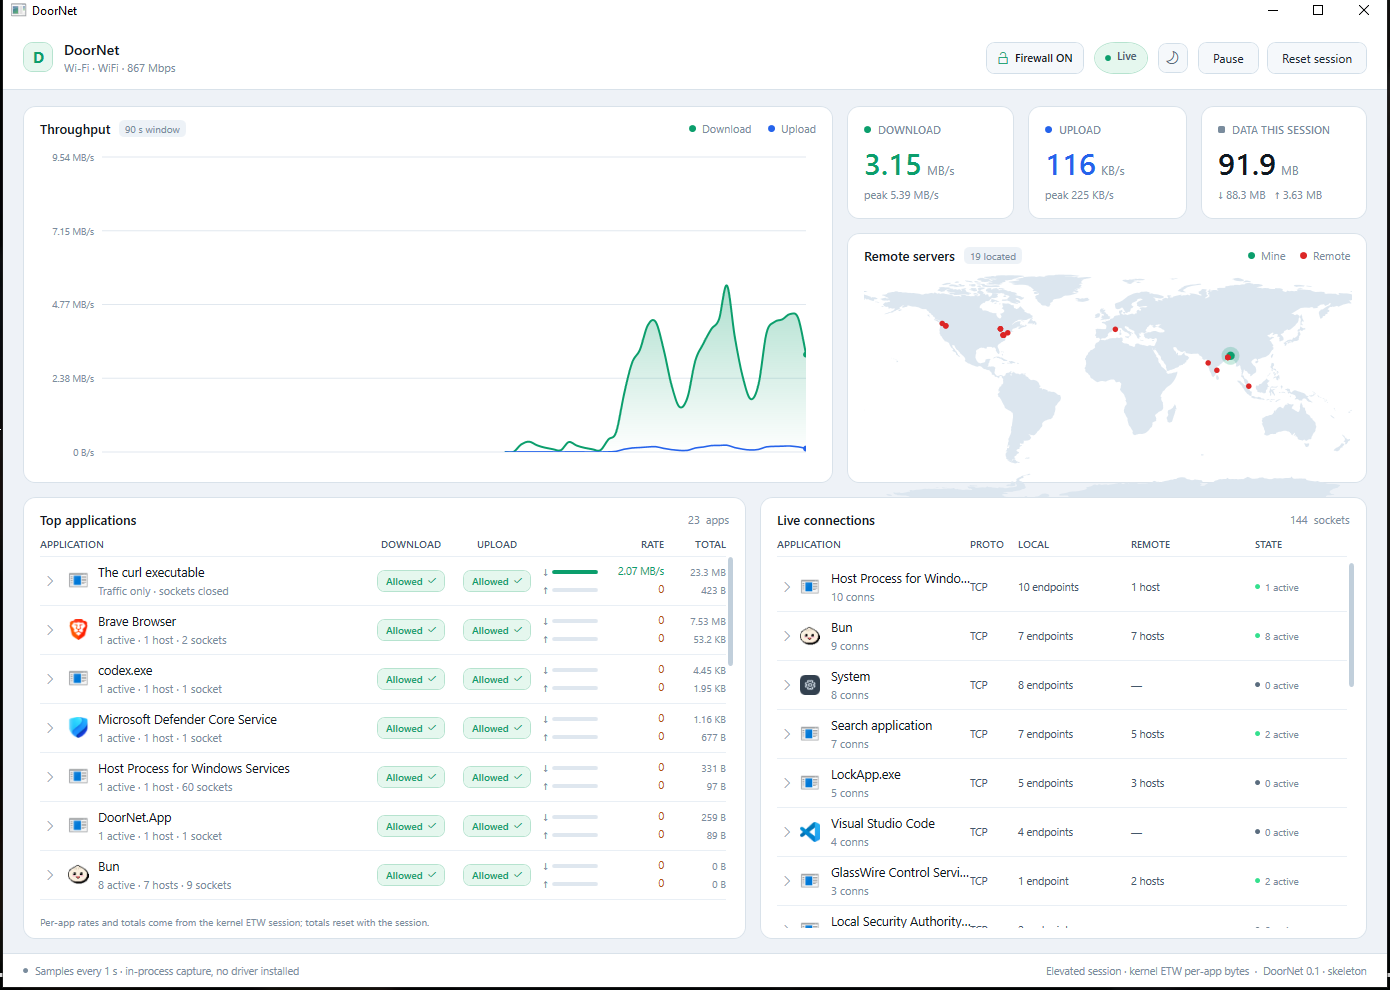
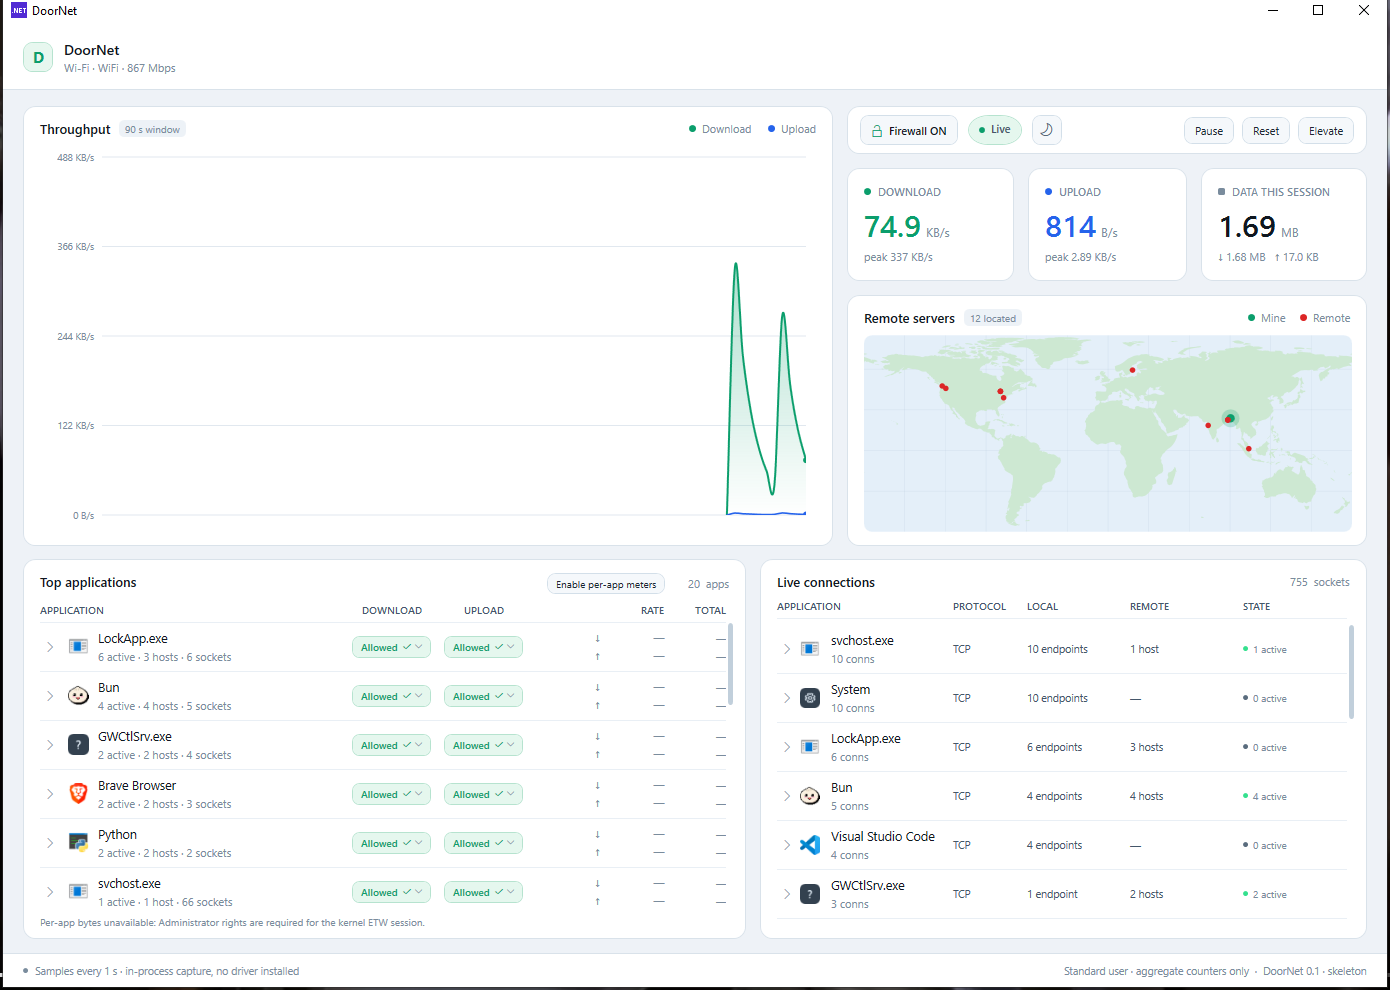
Move the session controls next to the meters and map
The header now holds only the product mark and adapter summary, leaving room for the planned navigation tabs. A session bar in the right column carries the firewall switch, live pill, theme toggle and the pause/reset/elevate actions, using the same card padding and gutters as the meters and map. The map keeps its 250px minimum and the bar stays a single row down to the minimum window width.

diff --git a/src/DoorNet.App/MainWindow.xaml b/src/DoorNet.App/MainWindow.xaml
@@ -57,103 +57,6 @@
                     </StackPanel>
                 </StackPanel>
 
-                <StackPanel Grid.Column="2" Orientation="Horizontal" VerticalAlignment="Center">
-                    <Button Command="{Binding ToggleFirewallCommand}"
-                            Style="{StaticResource GhostButton}"
-                            Padding="10,6"
-                            Margin="0,0,10,0"
-                            ToolTip="{Binding FirewallTooltip}">
-                        <StackPanel Orientation="Horizontal">
-                            <TextBlock Text="&#xE785;"
-                                       FontFamily="{StaticResource GlyphFont}"
-                                       FontSize="12"
-                                       Margin="0,0,6,0"
-                                       VerticalAlignment="Center">
-                                <TextBlock.Style>
-                                    <Style TargetType="TextBlock">
-                                        <Setter Property="Foreground" Value="{DynamicResource TextMutedBrush}" />
-                                        <Style.Triggers>
-                                            <DataTrigger Binding="{Binding IsFirewallEnabled}" Value="True">
-                                                <Setter Property="Foreground" Value="{DynamicResource DownloadBrush}" />
-                                            </DataTrigger>
-                                        </Style.Triggers>
-                                    </Style>
-                                </TextBlock.Style>
-                            </TextBlock>
-                            <TextBlock Text="{Binding FirewallStateText}"
-                                       FontSize="11"
-                                       FontWeight="SemiBold"
-                                       VerticalAlignment="Center">
-                                <TextBlock.Style>
-                                    <Style TargetType="TextBlock">
-                                        <Setter Property="Foreground" Value="{DynamicResource TextMutedBrush}" />
-                                        <Style.Triggers>
-                                            <DataTrigger Binding="{Binding IsFirewallEnabled}" Value="True">
-                                                <Setter Property="Foreground" Value="{DynamicResource TextPrimaryBrush}" />
-                                            </DataTrigger>
-                                        </Style.Triggers>
-                                    </Style>
-                                </TextBlock.Style>
-                            </TextBlock>
-                        </StackPanel>
-                    </Button>
-
-                    <Border Padding="10,5" CornerRadius="20" BorderThickness="1" ToolTip="{Binding LastError}">
-                        <Border.Style>
-                            <Style TargetType="Border">
-                                <Setter Property="Background" Value="{DynamicResource LivePillBrush}" />
-                                <Setter Property="BorderBrush" Value="{DynamicResource LivePillBorderBrush}" />
-                                <Style.Triggers>
-                                    <DataTrigger Binding="{Binding IsCapturing}" Value="False">
-                                        <Setter Property="Background" Value="{DynamicResource PausedPillBrush}" />
-                                        <Setter Property="BorderBrush" Value="{DynamicResource PausedPillBorderBrush}" />
-                                    </DataTrigger>
-                                </Style.Triggers>
-                            </Style>
-                        </Border.Style>
-                        <StackPanel Orientation="Horizontal">
-                            <Ellipse Width="6" Height="6" Margin="0,0,6,0" VerticalAlignment="Center">
-                                <Ellipse.Style>
-                                    <Style TargetType="Ellipse">
-                                        <Setter Property="Fill" Value="{DynamicResource DownloadBrush}" />
-                                        <Style.Triggers>
-                                            <DataTrigger Binding="{Binding IsCapturing}" Value="False">
-                                                <Setter Property="Fill" Value="{DynamicResource TextMutedBrush}" />
-                                            </DataTrigger>
-                                        </Style.Triggers>
-                                    </Style>
-                                </Ellipse.Style>
-                            </Ellipse>
-                            <TextBlock Text="{Binding StatusText}"
-                                       FontSize="11"
-                                       FontWeight="SemiBold"
-                                       Foreground="{DynamicResource TextSecondaryBrush}" />
-                        </StackPanel>
-                    </Border>
-
-                    <Button Style="{StaticResource IconButton}"
-                            Content="{Binding ThemeGlyph}"
-                            ToolTip="{Binding ThemeTooltip}"
-                            Command="{Binding ToggleThemeCommand}"
-                            AutomationProperties.AutomationId="ThemeToggle"
-                            AutomationProperties.Name="Switch theme"
-                            Margin="10,0,0,0" />
-
-                    <Button Content="{Binding CaptureButtonLabel}"
-                            Command="{Binding ToggleCaptureCommand}"
-                            Style="{StaticResource GhostButton}"
-                            Margin="10,0,0,0" />
-                    <Button Content="Reset session"
-                            Command="{Binding ResetSessionCommand}"
-                            Style="{StaticResource GhostButton}"
-                            Margin="8,0,0,0" />
-                    <Button Content="Restart elevated"
-                            Command="{Binding RestartElevatedCommand}"
-                            Style="{StaticResource GhostButton}"
-                            Margin="8,0,0,0"
-                            ToolTip="Relaunch with administrator rights to measure per-app byte usage"
-                            Visibility="{Binding CanOfferElevation, Converter={StaticResource BoolToVis}}" />
-                </StackPanel>
             </Grid>
         </Border>
 
@@ -209,7 +112,134 @@
                             </Grid>
                         </Border>
 
-                <Grid Grid.Row="0" Grid.Column="1" Margin="7,0,0,0">
+                <Grid Grid.Row="0" Grid.Column="1" Grid.RowSpan="2" Margin="7,0,0,0">
+                    <Grid.RowDefinitions>
+                        <RowDefinition Height="Auto" />
+                        <RowDefinition Height="Auto" />
+                        <RowDefinition Height="*" />
+                    </Grid.RowDefinitions>
+                    <Border Grid.Row="0" Style="{StaticResource Card}" Padding="12,8">
+                        <Grid>
+                            <Grid.ColumnDefinitions>
+                                <ColumnDefinition Width="Auto" />
+                                <ColumnDefinition Width="*" />
+                            </Grid.ColumnDefinitions>
+
+                            <StackPanel Grid.Column="0" Orientation="Horizontal" VerticalAlignment="Center">
+                                <Button Command="{Binding ToggleFirewallCommand}"
+                                        Style="{StaticResource GhostButton}"
+                                        Padding="10,6"
+                                        ToolTip="{Binding FirewallTooltip}">
+                                    <StackPanel Orientation="Horizontal">
+                                        <TextBlock Text="&#xE785;"
+                                                   FontFamily="{StaticResource GlyphFont}"
+                                                   FontSize="12"
+                                                   Margin="0,0,6,0"
+                                                   VerticalAlignment="Center">
+                                            <TextBlock.Style>
+                                                <Style TargetType="TextBlock">
+                                                    <Setter Property="Foreground" Value="{DynamicResource TextMutedBrush}" />
+                                                    <Style.Triggers>
+                                                        <DataTrigger Binding="{Binding IsFirewallEnabled}" Value="True">
+                                                            <Setter Property="Foreground" Value="{DynamicResource DownloadBrush}" />
+                                                        </DataTrigger>
+                                                    </Style.Triggers>
+                                                </Style>
+                                            </TextBlock.Style>
+                                        </TextBlock>
+                                        <TextBlock Text="{Binding FirewallStateText}"
+                                                   FontSize="11"
+                                                   FontWeight="SemiBold"
+                                                   VerticalAlignment="Center">
+                                            <TextBlock.Style>
+                                                <Style TargetType="TextBlock">
+                                                    <Setter Property="Foreground" Value="{DynamicResource TextMutedBrush}" />
+                                                    <Style.Triggers>
+                                                        <DataTrigger Binding="{Binding IsFirewallEnabled}" Value="True">
+                                                            <Setter Property="Foreground" Value="{DynamicResource TextPrimaryBrush}" />
+                                                        </DataTrigger>
+                                                    </Style.Triggers>
+                                                </Style>
+                                            </TextBlock.Style>
+                                        </TextBlock>
+                                    </StackPanel>
+                                </Button>
+
+                                <Border Padding="10,5"
+                                        CornerRadius="20"
+                                        BorderThickness="1"
+                                        Margin="10,0,0,0"
+                                        ToolTip="{Binding LastError}">
+                                    <Border.Style>
+                                        <Style TargetType="Border">
+                                            <Setter Property="Background" Value="{DynamicResource LivePillBrush}" />
+                                            <Setter Property="BorderBrush" Value="{DynamicResource LivePillBorderBrush}" />
+                                            <Style.Triggers>
+                                                <DataTrigger Binding="{Binding IsCapturing}" Value="False">
+                                                    <Setter Property="Background" Value="{DynamicResource PausedPillBrush}" />
+                                                    <Setter Property="BorderBrush" Value="{DynamicResource PausedPillBorderBrush}" />
+                                                </DataTrigger>
+                                            </Style.Triggers>
+                                        </Style>
+                                    </Border.Style>
+                                    <StackPanel Orientation="Horizontal">
+                                        <Ellipse Width="6" Height="6" Margin="0,0,6,0" VerticalAlignment="Center">
+                                            <Ellipse.Style>
+                                                <Style TargetType="Ellipse">
+                                                    <Setter Property="Fill" Value="{DynamicResource DownloadBrush}" />
+                                                    <Style.Triggers>
+                                                        <DataTrigger Binding="{Binding IsCapturing}" Value="False">
+                                                            <Setter Property="Fill" Value="{DynamicResource TextMutedBrush}" />
+                                                        </DataTrigger>
+                                                    </Style.Triggers>
+                                                </Style>
+                                            </Ellipse.Style>
+                                        </Ellipse>
+                                        <TextBlock Text="{Binding StatusText}"
+                                                   FontSize="11"
+                                                   FontWeight="SemiBold"
+                                                   Foreground="{DynamicResource TextSecondaryBrush}" />
+                                    </StackPanel>
+                                </Border>
+
+                                <Button Style="{StaticResource IconButton}"
+                                        Content="{Binding ThemeGlyph}"
+                                        ToolTip="{Binding ThemeTooltip}"
+                                        Command="{Binding ToggleThemeCommand}"
+                                        AutomationProperties.AutomationId="ThemeToggle"
+                                        AutomationProperties.Name="Switch theme"
+                                        Margin="10,0,0,0" />
+                            </StackPanel>
+
+                            <StackPanel Grid.Column="1"
+                                        Orientation="Horizontal"
+                                        HorizontalAlignment="Right"
+                                        VerticalAlignment="Center"
+                                        Margin="10,0,0,0">
+                                <Button Content="{Binding CaptureButtonLabel}"
+                                        Command="{Binding ToggleCaptureCommand}"
+                                        Style="{StaticResource GhostButton}"
+                                        FontSize="11"
+                                        Padding="10,5" />
+                                <Button Content="Reset"
+                                        Command="{Binding ResetSessionCommand}"
+                                        Style="{StaticResource GhostButton}"
+                                        FontSize="11"
+                                        Padding="10,5"
+                                        Margin="8,0,0,0"
+                                        ToolTip="Reset the session totals" />
+                                <Button Content="Elevate"
+                                        Command="{Binding RestartElevatedCommand}"
+                                        Style="{StaticResource GhostButton}"
+                                        FontSize="11"
+                                        Padding="10,5"
+                                        Margin="8,0,0,0"
+                                        ToolTip="Restart with administrator rights to measure per-app byte usage"
+                                        Visibility="{Binding CanOfferElevation, Converter={StaticResource BoolToVis}}" />
+                            </StackPanel>
+                        </Grid>
+                    </Border>
+                    <Grid Grid.Row="1" Margin="0,14,0,0">
                     <Grid.ColumnDefinitions>
                         <ColumnDefinition Width="*" />
                         <ColumnDefinition Width="*" />
@@ -305,7 +335,7 @@
                             </Border>
                 </Grid>
 
-                <Border Grid.Row="1" Grid.Column="1" Style="{StaticResource Card}" Margin="7,14,0,0" MinHeight="250" Padding="16,13,14,12">
+                    <Border Grid.Row="2" Style="{StaticResource Card}" Margin="0,14,0,0" MinHeight="250" Padding="16,13,14,12">
                         <Grid>
                             <Grid.RowDefinitions>
                                 <RowDefinition Height="Auto" />
@@ -336,6 +366,7 @@
                                                    RemoteBrush="{DynamicResource DangerBrush}" />
                         </Grid>
                     </Border>
+                </Grid>
             </Grid>
 
 

diff --git a/docs/ARCHITECTURE.md b/docs/ARCHITECTURE.md
@@ -71,7 +71,7 @@ v1 filters adapters by type and status; v2 adds per-adapter selection in Setting
 
 - **Current state:** one process. When launched elevated, it opens the kernel ETW session
   itself (`EtwPerAppUsageSource`); unelevated, the source reports why it is unavailable and
-  the header offers **Restart elevated** (UAC relaunch). This is the fastest path to a
+  the session bar offers **Elevate** (UAC relaunch). This is the fastest path to a
   working feature and is fine for a single-user desktop app.
 - **Kernel provider gotcha:** `TraceEventSession.EnableKernelProvider` returns `false` on
   the *normal* success path for a `NT Kernel Logger` session (the bool is only `true` when
@@ -149,7 +149,10 @@ Dark, dense, instrument-panel feel — closer to Task Manager's Performance tab 
 consumer dashboard. No GlassWire visual language (its palette, iconography, layout and
 branding are not reused).
 
-- Header: product mark, adapter/status pill, capture on/off.
+- Header: product mark and adapter summary, with the space to its right reserved for the
+  navigation tabs.
+- Session bar (right column, above the meters): firewall master switch, live/paused pill,
+  theme toggle, and capture/reset/elevate actions.
 - Three stat tiles: download rate, upload rate, session total. Large tabular numerals.
 - Main chart: 90 s dual-series area chart, auto-scaled, drawn natively (no chart library).
 - Split pane: top applications (left) and live connections (right, sortable grid).

diff --git a/README.md b/README.md
@@ -105,7 +105,7 @@ Windows Firewall is stateful, so blocking **Out** also stops new downloads (the 
 never leave), while blocking **In** stops unsolicited incoming traffic — downloads the app
 initiated still return. Allow both directions to restore an app completely.
 
-The header carries the **master switch** — `Firewall ON` / `Firewall OFF`:
+The session bar above the meters carries the **master switch** - `Firewall ON` / `Firewall OFF`:
 
 - **ON** arms every DoorNet rule; individual blocks take effect immediately.
 - **OFF** leaves the rules defined but *disabled* (`Enabled: No`), so all apps can connect
@@ -166,7 +166,7 @@ milestones, elevation model, packaging and risk list: **[docs/ARCHITECTURE.md](d
   `%LocalAppData%\DoorNet\geo-cache.json`. Private, loopback, link-local and reserved
   addresses are filtered client-side and never leave the machine; only public remote IPs are
   sent to the service.
-- **Themes:** the header sun/moon button switches light/dark instantly and the choice is
+- **Themes:** the session bar's sun/moon button switches light/dark instantly and the choice is
   saved to `%LocalAppData%\DoorNet\settings.json`. All UI colours are semantic brushes in
   `Styles/Palette.*.xaml`; the window repaints in place without a restart.
 - **Windows 10 title bar:** `DWMWA_CAPTION_COLOR` is Windows 11-only, and Windows 10 ignores
